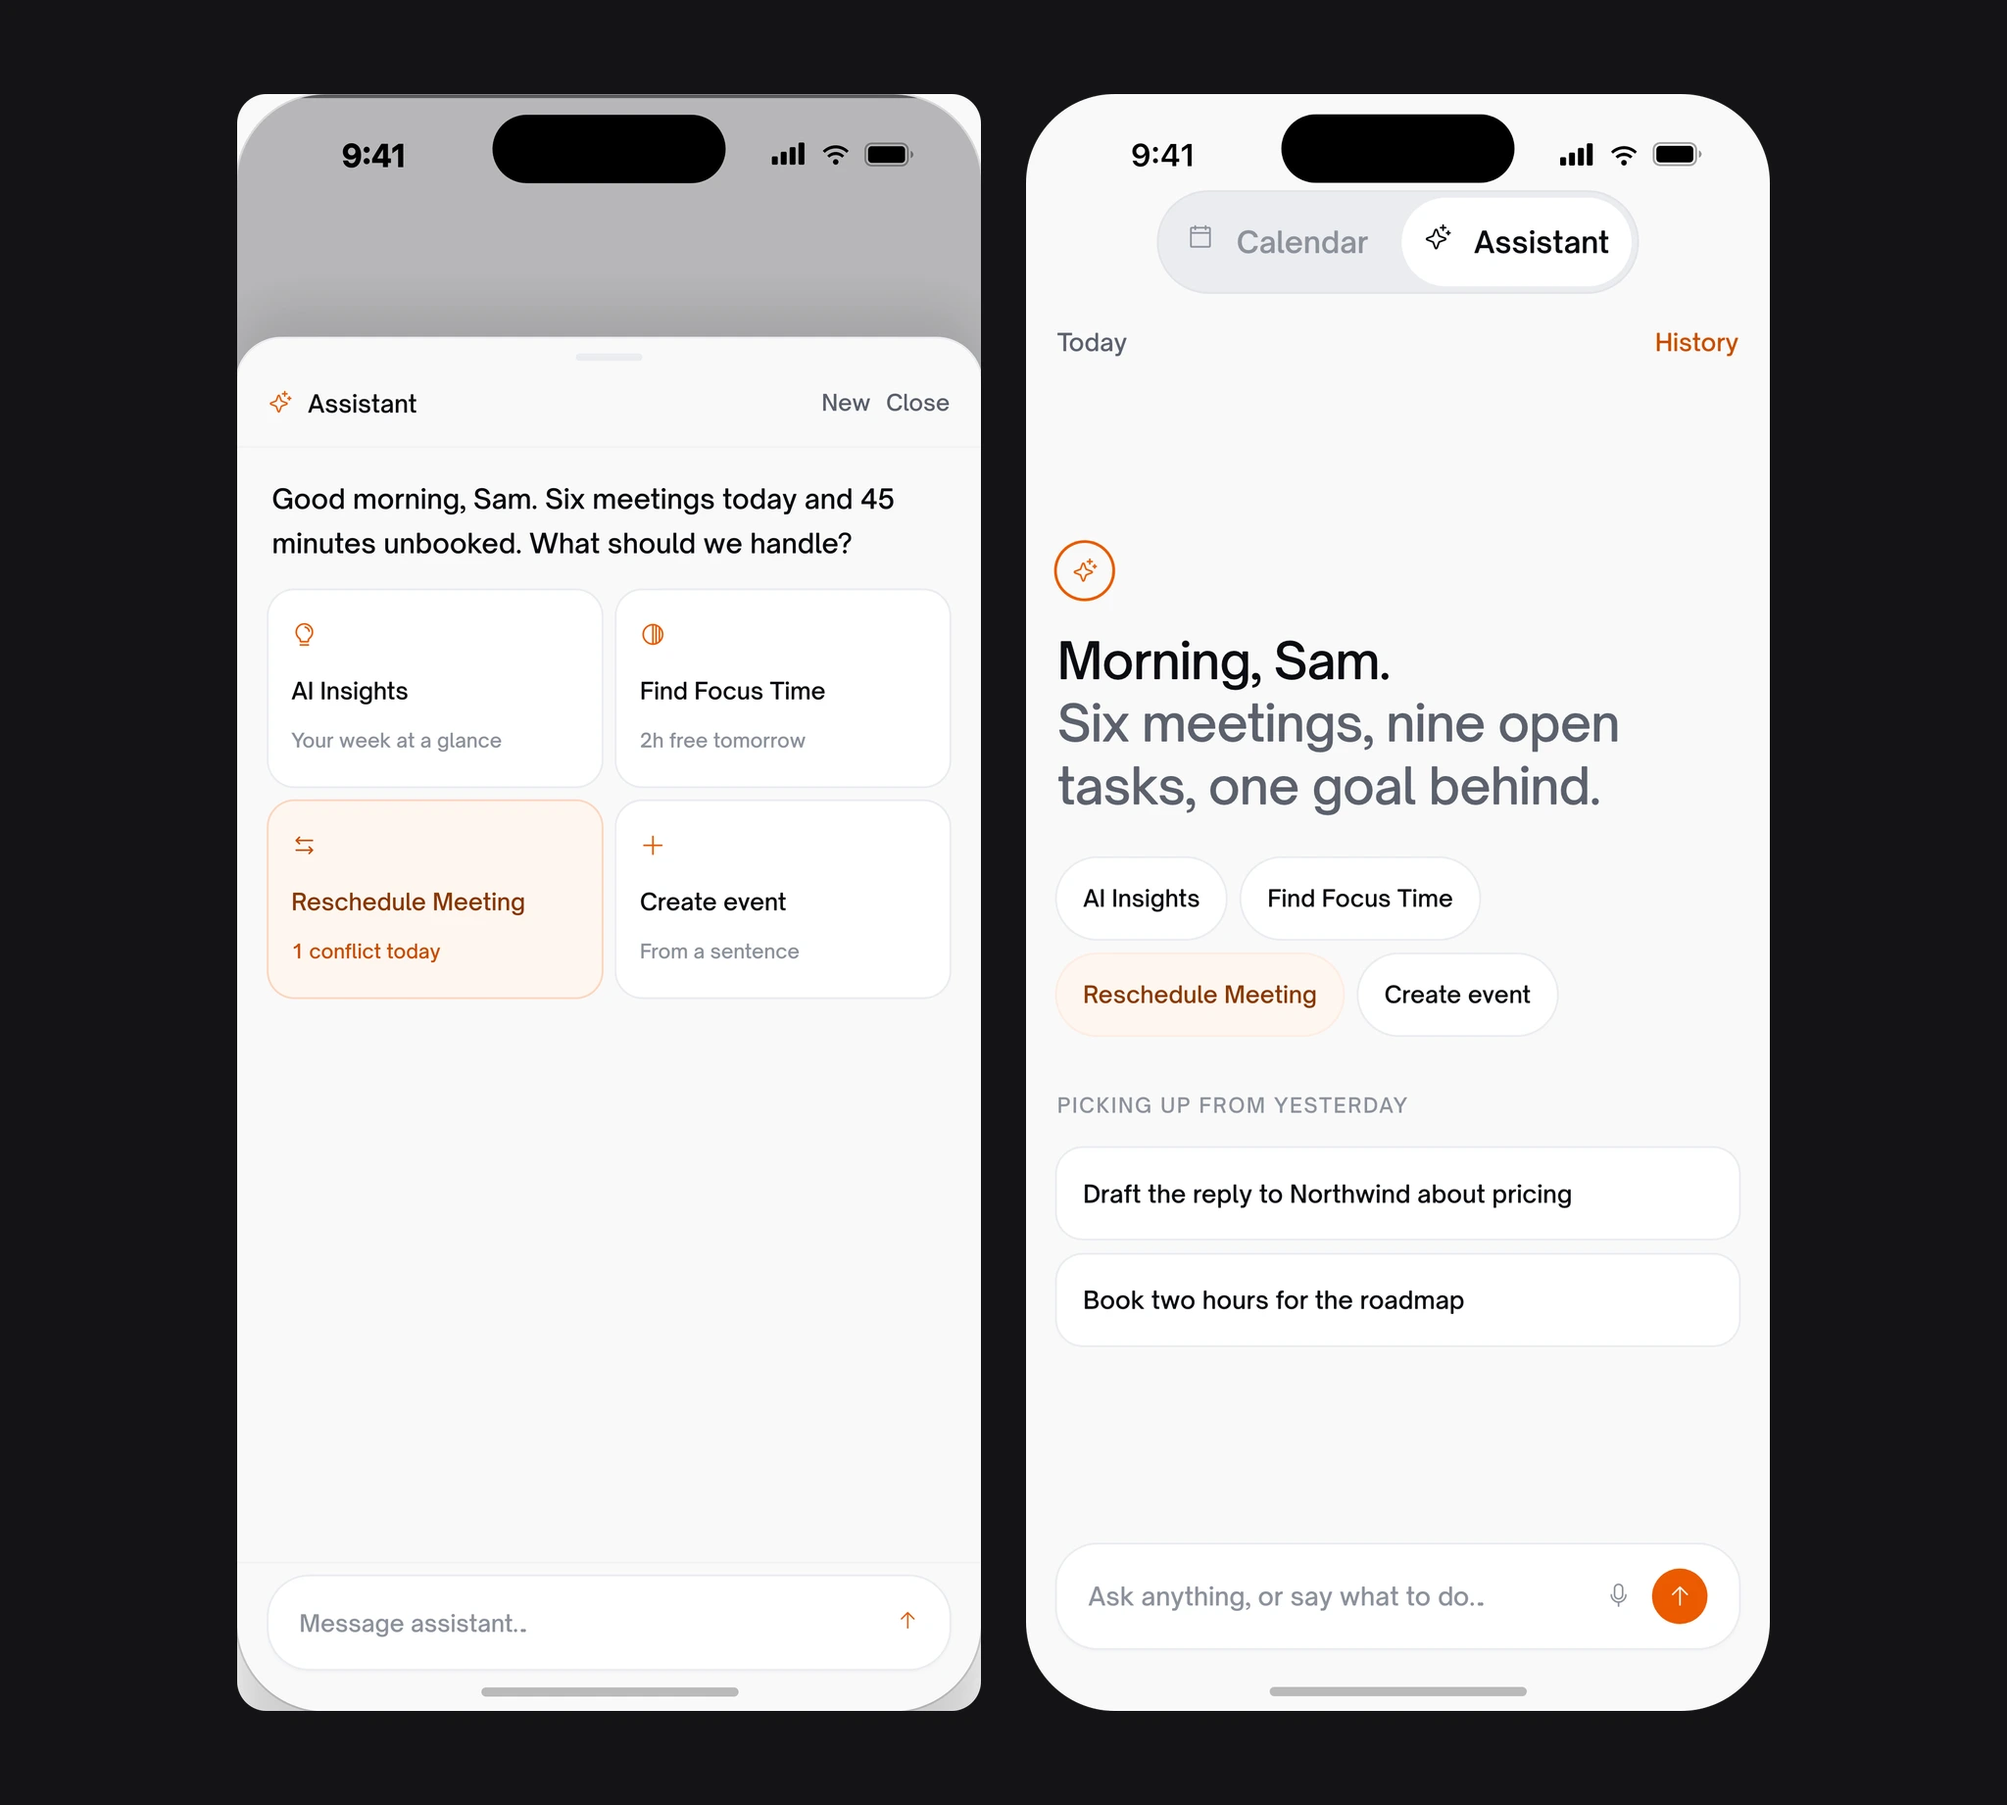
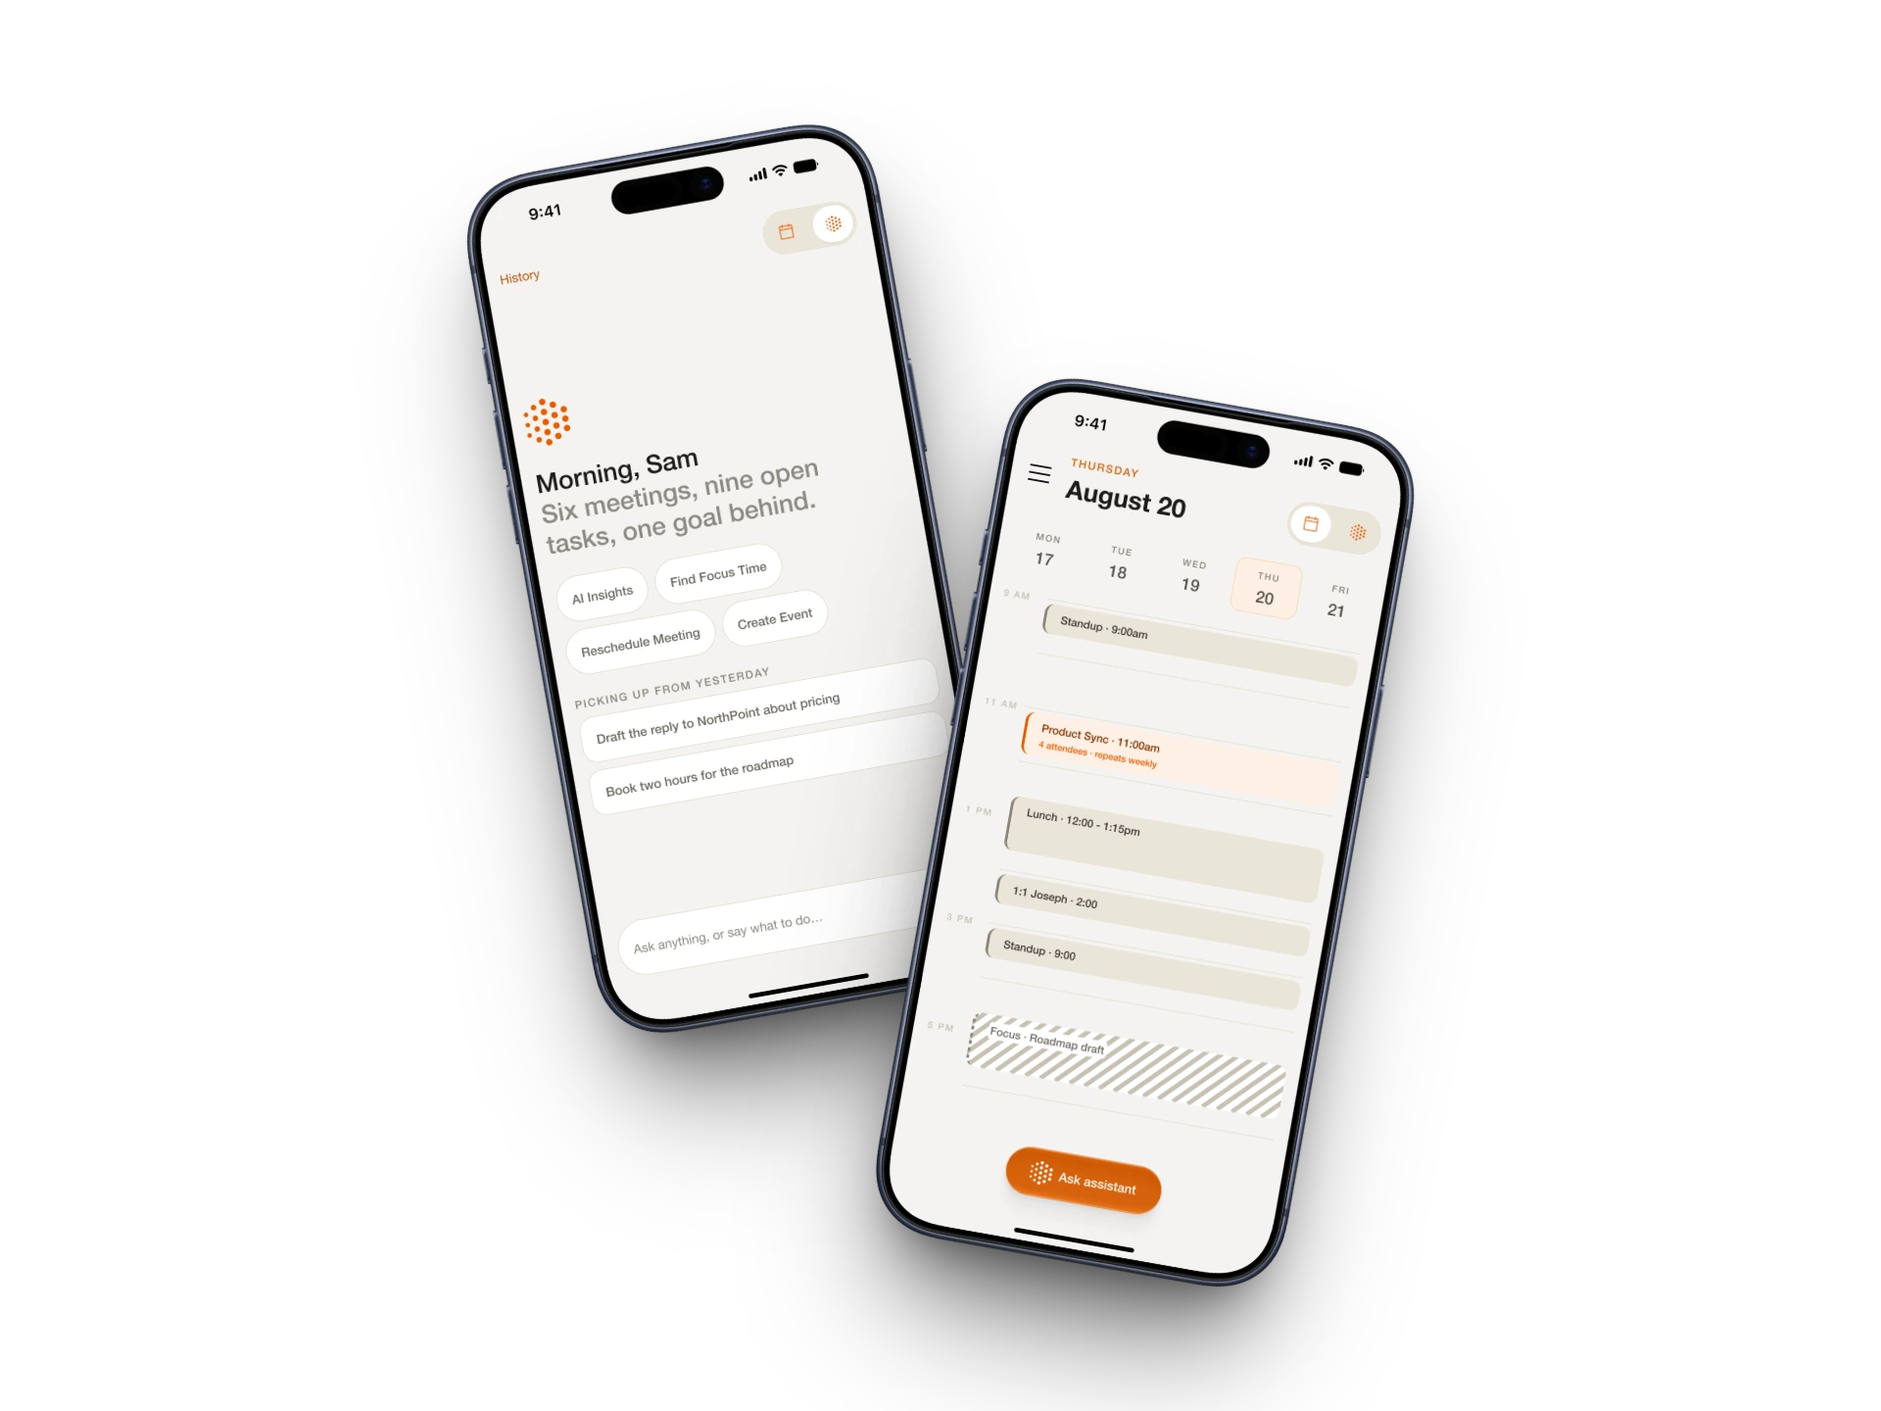
Swap the CalDeck opening figures for the rendered mockups
Figure 2 becomes the wood mockup of the assistant's front door, and its
caption moves to what that screen actually argues — no blank chat, the
day in one line, and yesterday's two unfinished threads.

The two-phone render takes over the two-doors figure, which is what it
shows: the destination beside the day with its Ask assistant button. It
keeps its alpha so the page surface shows through, and it carries the
Focus Time hatching point the old figure 2 was holding.

diff --git a/lib/data.ts b/lib/data.ts
@@ -558,9 +558,9 @@ export const projects: Project[] = [
           kind: "figure",
           src: "/images/work/caldeck-calendar.webp",
           caption:
-            "Thursday. Six meetings, and a hatched block at the end of the day that is not a meeting at all.",
+            "The front door: a read of the day, four things you might want, and the two threads you left open yesterday.",
           impact:
-            "Focus Time is drawn in the same hatching the calendar already uses for tentative and unavailable, because that is exactly what it is — time that is already spoken for. Product Sync at 11:00 is the meeting the rest of this page moves, and it sits against that block. The conflict is on the screen before anyone has asked the assistant anything.",
+            "A blank chat is the fastest way to lose a busy person, and it is the single thing every general assistant in the teardown gets wrong for this use case. So the screen answers before it asks. One line on the state of the day, the four errands as chips, and — the part I care most about — the two threads that were interrupted yesterday, because most mornings the right next move is the one that got cut off rather than a new one. The accent appears three times here and nowhere else on the screen.",
         },
         {
           kind: "list",
@@ -663,9 +663,9 @@ export const projects: Project[] = [
           kind: "figure",
           src: "/images/work/caldeck-two-doors.webp",
           caption:
-            "Left: the sheet raised over the calendar for one errand. Right: Assistant as a destination, opening on a read of the day.",
+            "The two doors side by side. Assistant as a place you go on the left; the day itself on the right, with the assistant one tap away.",
           impact:
-            "The blank chat is the fastest way to lose a busy person — it is the single thing every general assistant gets wrong for this use case — so the destination answers before it asks. One line on the state of the day, the four quick actions as chips, and the two threads left unfinished yesterday. Continuity beats novelty most mornings: the right next move is usually the one that got interrupted. The accent appears three times on that screen and nowhere else.",
+            "Thursday carries six meetings and a hatched block at the end of it that is not a meeting at all. Focus Time is drawn in the same hatching the calendar already uses for tentative and unavailable, because that is exactly what it is: time already spoken for. Product Sync at 11:00 is the meeting the rest of this page moves, and it sits against that block — so the conflict is on screen before anyone has asked the assistant anything. Ask assistant raises a sheet over this day for one errand; the switcher in the top corner opens the other door entirely.",
         },
         {
           kind: "decisions",
